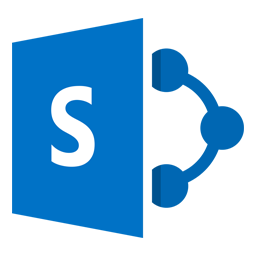
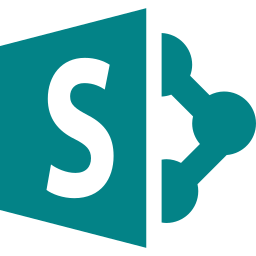
merge

diff --git a/src/styles.css b/src/styles.css
@@ -2,7 +2,7 @@
 @import '~ngx-toastr/toastr';
 
 html, body { height: 100%; }
-body { margin: 0; font-family: Roboto, "Helvetica Neue", sans-serif; }
+body { margin: 0; font-family: Roboto, "Open Sans", "Helvetica Neue", sans-serif; }
 
 :root {
   --btn-bg-color1: #000077;
@@ -13,10 +13,12 @@ body { margin: 0; font-family: Roboto, "Helvetica Neue", sans-serif; }
   --btn-bg-color6: #4D4D51;
   --btn-bg-color7: #1367FF;
   --btn-bg-color8: #202121;
+  --btn-bg-color9: #038387;
 
   --text-bg-color1: #000077;
   --text-bg-color2: #FC7000;
   --text-bg-color3: #4D4D51;
+  --text-bg-color4: #1367FF;
 
   --bor-bg-color1: #002c8b7a;
 
@@ -24,8 +26,6 @@ body { margin: 0; font-family: Roboto, "Helvetica Neue", sans-serif; }
   --header-bg-color2: #1c0a75;
 
   --footer-bg-color1: #000077;
-
-
 
 /* REVISADO: #1367FF  */
 }
@@ -47,7 +47,7 @@ body { margin: 0; font-family: Roboto, "Helvetica Neue", sans-serif; }
   /* padding:5px; */
 }
 .edit{
-  color: #1b70c7;
+  color: var(--btn-bg-color1);
   padding:3px;
 }
 .delete{
@@ -71,15 +71,23 @@ body { margin: 0; font-family: Roboto, "Helvetica Neue", sans-serif; }
   color: var(--btn-bg-color1);
 }
 
+.btnSharepoint{
+  color: var(--btn-bg-color9);
+}
+
+.btnPdf{
+  color: var(--btn-bg-color4);
+}
+
 .btnnext{
   float: right;
-  background:#3f51b5; 
+  background:var(--btn-bg-color1);
   color: #fff;
 }
 
 .btnprevio{
   float: left;
-  background:#3f51b5; 
+  background:var(--btn-bg-color1);
   color: #fff;
 }
 
@@ -228,7 +236,7 @@ form{
 }
 
 .mat-dialog-title{
-  color: #4457bf;
+  color: var(--text-bg-color1);
 }
 
 .circulo {
@@ -359,9 +367,20 @@ form{
   color: var(--text-bg-color1);
   font-size: 16px;
 }
-/* .mat-horizontal-content-container{
-  padding: 7px 7px 24px 07px !important;
-} */
+
+.balancenegativo{
+  text-align:right;
+  font-weight:500;
+  color:var(--text-bg-color2);;
+}
+
+.balancenonegativo{
+  text-align:right;
+  font-weight:500;
+  color:var(--text-bg-color4);;
+}
+
+
 
 @media (max-width:1200px){
   .example-button{

diff --git a/src/app/page/Administracion/ReportesAdministrativos/RendicionDeGastos/crendicion/crendicion.component.html b/src/app/page/Administracion/ReportesAdministrativos/RendicionDeGastos/crendicion/crendicion.component.html
@@ -195,10 +195,10 @@
             <button *ngIf="edit" mat-stroked-button class="btnHeader hijo" type="button" (click)="abrirDetalle()">
               <mat-icon class="maticon">add</mat-icon>
             </button>  
-            <a *ngIf="url_m!=null && url_m!=''" mat-stroked-button class="btnHeader hijo" type="button" matTooltip="SharePoint" href="{{url_m}}" target="_blank">
+            <a *ngIf="url_m!=null && url_m!=''" mat-stroked-button class="btnSharepoint hijo" type="button" matTooltip="SharePoint" href="{{url_m}}" target="_blank">
               <img style="width: 28px;" src="{{iconSharePoint}}" alt=""/>
             </a>
-            <button *ngIf="existDetalle" mat-stroked-button class="btnHeader hijo" type="button" (click)="mostrarPDF(id)">
+            <button *ngIf="existDetalle" mat-stroked-button class="btnPdf hijo" type="button" (click)="mostrarPDF(id)">
               <mat-icon class="maticon">picture_as_pdf</mat-icon>
             </button>         
           </div>

diff --git a/src/app/page/Administracion/ReportesAdministrativos/RendicionDeGastos/lrendicion/lrendicion.component.html b/src/app/page/Administracion/ReportesAdministrativos/RendicionDeGastos/lrendicion/lrendicion.component.html
@@ -97,8 +97,8 @@
             <ng-container matColumnDef="balance">
               <mat-header-cell *matHeaderCellDef> Balance </mat-header-cell>
               <mat-cell *matCellDef="let element" data-label="Balance">
-                <div *ngIf="element.balance < 0" style="text-align:right;font-weight:500;color:#cf1313;">{{mostrarBalance(element.monedaRecibe, element.balance)}}</div>
-                <div *ngIf="element.balance >= 0" style="text-align:right;font-weight:500;color:#02108c;">{{mostrarBalance(element.monedaRecibe, element.balance)}}</div> 
+                <div *ngIf="element.balance < 0" class="balancenegativo">{{mostrarBalance(element.monedaRecibe, element.balance)}}</div>
+                <div *ngIf="element.balance >= 0" class="balancenonegativo">{{mostrarBalance(element.monedaRecibe, element.balance)}}</div> 
               </mat-cell>
             </ng-container>
             

diff --git a/src/app/page/Administracion/ReportesAdministrativos/RendicionDeGastos/crendicion/crendicion.component.css b/src/app/page/Administracion/ReportesAdministrativos/RendicionDeGastos/crendicion/crendicion.component.css
@@ -1,18 +1,18 @@
 .example-right-align-ingreso {
     text-align: right;
-    color:#0f0fd3;
+    color:var(--text-bg-color4);
     font-weight:500
   }
 
   .example-right-align-gasto {
     text-align: right;
-    color:#dd0707;
+    color:var(--text-bg-color2);
     font-weight:500
   }
 
   .example-right-align-balance{
     text-align: right;
-    color:#807e7e;
+    color:var(--text-bg-color3);
     font-weight:500
   }
 
